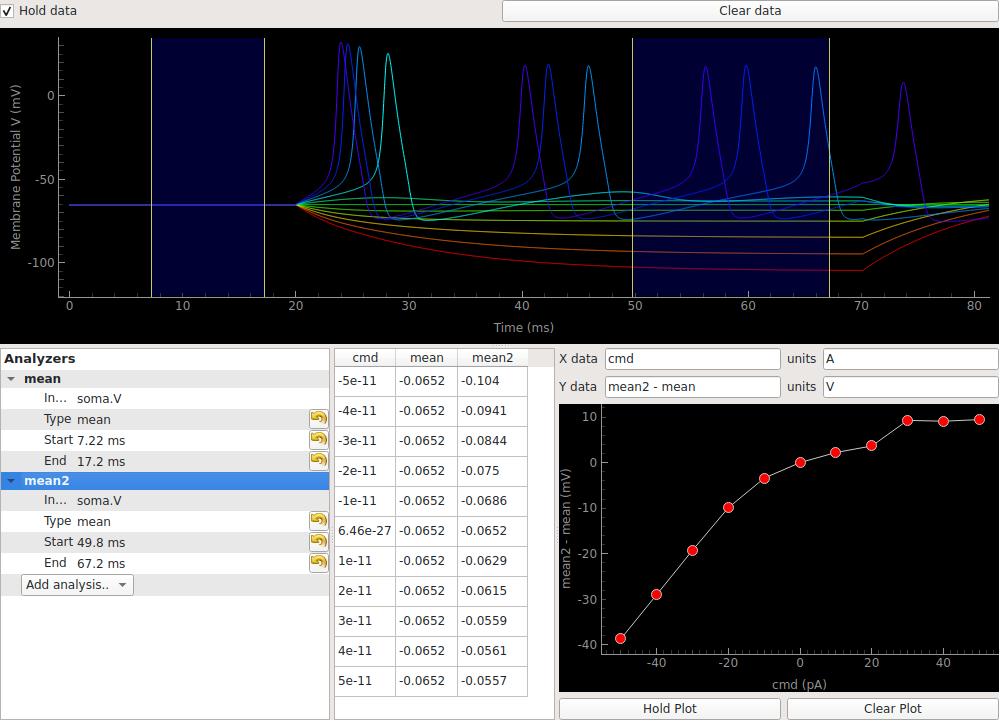
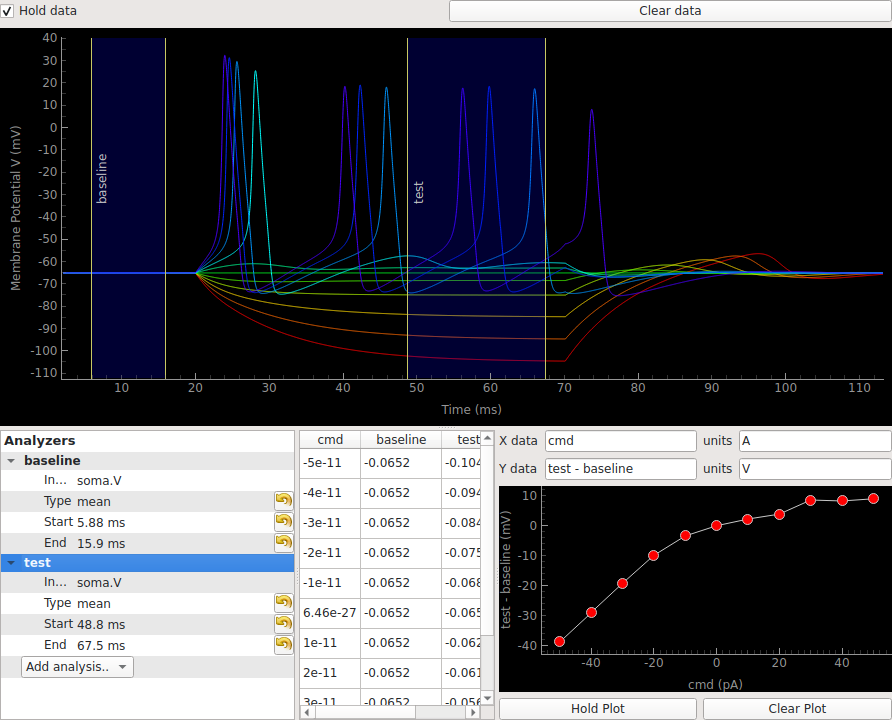
add region labels to trace analyzer

diff --git a/neurodemo/traceanalyzer.py b/neurodemo/traceanalyzer.py
@@ -67,7 +67,7 @@ class TraceAnalyzer(qt.QWidget):
         
 
 class TraceAnalyzerGroup(pt.parameterTypes.GroupParameter):
-    need_update = qt.Signal()
+    need_update = qt.Signal()    
 
     def __init__(self, **kwds):
         analyses = ['min', 'max', 'mean', 'exp_tau', 'spike_count', 'spike_latency']
@@ -105,6 +105,7 @@ class TraceAnalyzerParameter(pt.parameterTypes.GroupParameter):
         self.sigTreeStateChanged.connect(self.tree_changed)
         
         self.rgn = pg.LinearRegionItem([self['Start'], self['End']])
+        self.rgn_label = pg.InfLineLabel(self.rgn.lines[0], text=self.name(), angle=90, anchors=[(0, 0), (0, 0)])
         self.rgn.sigRegionChanged.connect(self.region_changed)
 
         self.show_threshold_param()
@@ -121,6 +122,8 @@ class TraceAnalyzerParameter(pt.parameterTypes.GroupParameter):
                     self.rgn.sigRegionChanged.connect(self.region_changed)
             elif param is self.child('Type'):
                 self.show_threshold_param()
+            elif param is self and change == 'name':
+                self.rgn_label.setText(self.name())
             self.need_update.emit(self)
 
     def show_threshold_param(self):
